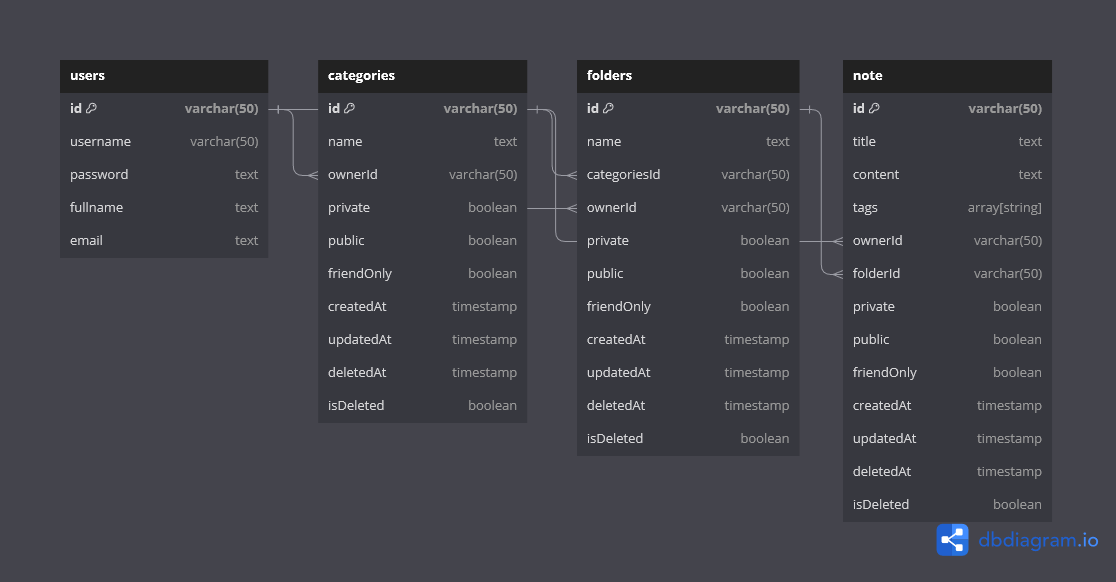
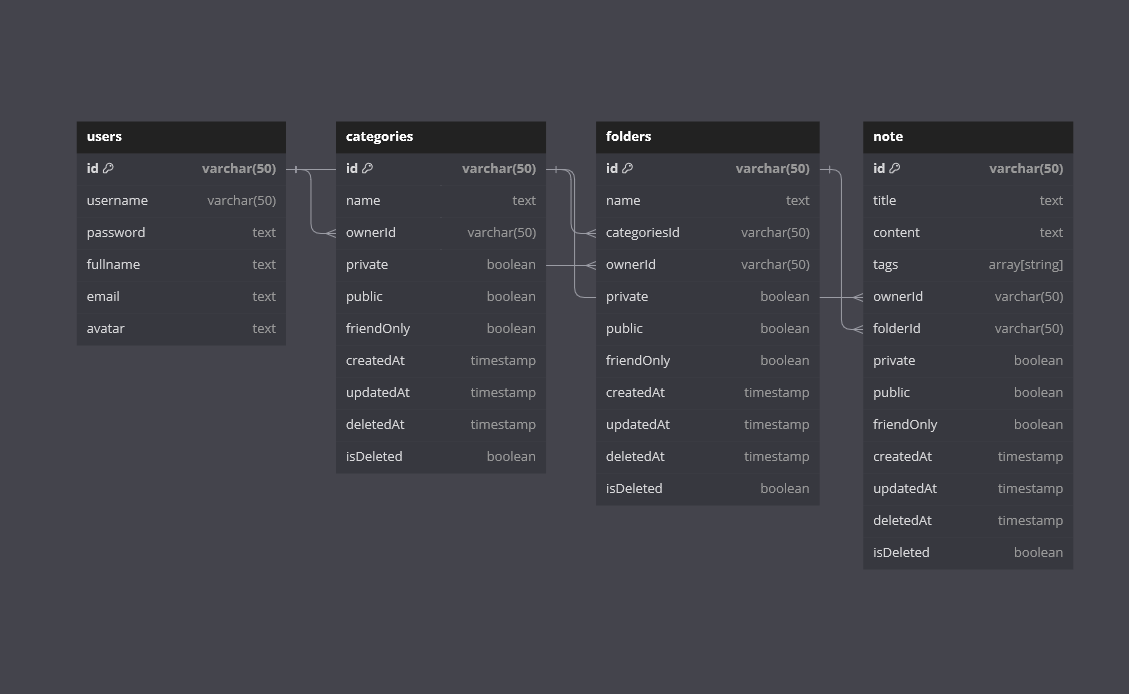
add update profile picture

diff --git a/server/app/Controllers/Http/UsersController.ts b/server/app/Controllers/Http/UsersController.ts
@@ -3,6 +3,7 @@ import type { HttpContextContract } from '@ioc:Adonis/Core/HttpContext'
 import Database from '@ioc:Adonis/Lucid/Database'
 import { schema, rules } from '@ioc:Adonis/Core/Validator'
 import Hash from '@ioc:Adonis/Core/Hash'
+import Env from '@ioc:Adonis/Core/Env'
 
 export default class UsersController {
   public async index({ auth, response }: HttpContextContract) {
@@ -18,9 +19,15 @@ export default class UsersController {
     }
 
     const users = await Database.from('users')
-      .select('id', 'name', 'email', 'username', 'created_at', 'updated_at')
+      .select('id', 'name', 'email', 'username', 'avatar', 'created_at', 'updated_at')
       .whereNot('id', userId)
       .returning('*')
+
+    users.forEach((user) => {
+      if (user.avatar) {
+        user.avatar = `${Env.get('APP_URL')}/uploads/${user.avatar}`
+      }
+    })
 
     return response.status(200).send({
       meta: {
@@ -63,7 +70,17 @@ export default class UsersController {
 
     const user = await Database.table('users')
       .insert({ name, email, username, password: encryptedPassword })
-      .returning(['id', 'name', 'email', 'username', 'created_at', 'updated_at'])
+      .returning(['id', 'name', 'email', 'username', 'avatar', 'created_at', 'updated_at'])
+
+    const slug = `${user[0].username}-${user[0].id}`
+
+    await Database.table('notes').insert({
+      owner_id: user[0].id,
+      title: 'Welcome to Notes App',
+      content: 'This is your first note. You can delete this note and create your own note.',
+      slug: slug,
+      tags: ['welcome', 'notes'],
+    })
 
     return {
       meta: {
@@ -97,6 +114,73 @@ export default class UsersController {
         status: 401,
         message: 'Please login first',
       },
+    })
+  }
+
+  public async update({ auth, request, response }: HttpContextContract) {
+    const userId = auth.use('api').user?.id
+    const { name, email, username, password } = request.body()
+
+    if (!userId) {
+      return response.unauthorized({
+        meta: {
+          status: 401,
+          message: 'Please login first',
+        },
+      })
+    }
+
+    const updateSchema = schema.create({
+      name: schema.string.optional([rules.minLength(3), rules.maxLength(100)]),
+      email: schema.string.optional([rules.email()]),
+      username: schema.string.optional([
+        rules.minLength(3),
+        rules.maxLength(50),
+        rules.unique({ table: 'users', column: 'username' }),
+      ]),
+      password: schema.string.optional([rules.minLength(8)]),
+    })
+
+    const customMessage = {
+      'required': 'The {{ field }} is required to update.',
+      'name.minLength': 'The name must be at least 3 characters.',
+      'name.maxLength': 'The name must be less than 100 characters.',
+      'email.email': 'The email must be a valid email address.',
+      'username.minLength': 'The username must be at least 3 characters.',
+      'username.maxLength': 'The username must be less than 50 characters.',
+      'username.unique': 'The username has already been taken.',
+      'password.minLength': 'The password must be at least 8 characters.',
+    }
+
+    try {
+      await request.validate({ schema: updateSchema, messages: customMessage })
+    } catch (error) {
+      return response.badRequest({
+        meta: {
+          status: 400,
+          message: 'Bad Request',
+        },
+        data: error.messages,
+      })
+    }
+
+    const user = await Database.from('users')
+      .where('id', userId)
+      .update({
+        name: name,
+        email: email,
+        username: username,
+        password: password,
+        updated_at: 'now()',
+      })
+      .returning(['id', 'name', 'email', 'username', 'avatar', 'created_at', 'updated_at'])
+
+    return response.status(200).send({
+      meta: {
+        status: 200,
+        message: 'Success',
+      },
+      data: user,
     })
   }
 }

diff --git a/server/app/Controllers/Http/AvatarsController.ts b/server/app/Controllers/Http/AvatarsController.ts
@@ -1,0 +1,74 @@
+import type { HttpContextContract } from '@ioc:Adonis/Core/HttpContext'
+
+import Application from '@ioc:Adonis/Core/Application'
+import { schema } from '@ioc:Adonis/Core/Validator'
+import Database from '@ioc:Adonis/Lucid/Database'
+import Env from '@ioc:Adonis/Core/Env'
+
+export default class AvatarsController {
+  public async store({ auth, request, response }: HttpContextContract) {
+    const userId = auth.use('api').user?.id
+    const avatar = request.file('avatar')
+
+    if (!userId) {
+      return response.unauthorized({
+        meta: {
+          status: 401,
+          message: 'Please login first',
+        },
+      })
+    }
+
+    const avatarSchema = schema.create({
+      avatar: schema.file({
+        size: '2mb',
+        extnames: ['jpg', 'png', 'jpeg'],
+      }),
+    })
+
+    const customMessage = {
+      'required': 'The {{ field }} is required to upload an avatar.',
+      'avatar.file': 'The avatar must be a file.',
+      'avatar.size': 'The avatar must be less than 2MB.',
+      'avatar.extnames': 'The avatar must be a file of type: jpg, png, jpeg.',
+    }
+
+    try {
+      await request.validate({ schema: avatarSchema, messages: customMessage })
+    } catch (error) {
+      return response.badRequest({
+        meta: {
+          status: 400,
+          message: 'Bad Request',
+        },
+        data: error.messages,
+      })
+    }
+
+    await avatar?.move(Application.tmpPath('uploads'), {
+      name: `${new Date().getTime()}.${avatar?.extname}`,
+    })
+
+    const newAvatar = await Database.from('users')
+      .where('id', userId)
+      .update({
+        avatar: avatar?.fileName,
+        updated_at: 'now()',
+      })
+      .returning(['id', 'name', 'email', 'username', 'avatar', 'created_at', 'updated_at'])
+
+    newAvatar.forEach((avatar) => {
+      if (avatar.avatar) {
+        avatar.avatar = `${Env.get('APP_URL')}/uploads/${avatar.avatar}`
+      }
+    })
+
+    return response.created({
+      meta: {
+        status: 201,
+        message: 'Created',
+      },
+      data: newAvatar[0],
+    })
+  }
+}

diff --git a/server/app/Middleware/AvatarChecker.ts b/server/app/Middleware/AvatarChecker.ts
@@ -1,0 +1,31 @@
+import type { HttpContextContract } from '@ioc:Adonis/Core/HttpContext'
+import Database from '@ioc:Adonis/Lucid/Database'
+import fs from 'fs'
+
+export default class AvatarChecker {
+  public async handle({ auth, response }: HttpContextContract, next: () => Promise<void>) {
+    // code for middleware goes here. ABOVE THE NEXT CALL
+    const userId = auth.use('api').user?.id
+    if (!userId) {
+      response.unauthorized({
+        meta: {
+          status: 401,
+          message: 'Please login first',
+        },
+      })
+      return
+    }
+
+    const oldAvatar = await Database.from('users')
+      .select('users.*')
+      .where('id', userId)
+      .returning('avatar')
+
+    if (oldAvatar[0].avatar) {
+      // Delete old avatar
+      fs.unlinkSync(`./tmp/uploads/${oldAvatar[0].avatar}`)
+    }
+
+    await next()
+  }
+}

diff --git a/server/database/migrations/1697858987067_users.ts b/server/database/migrations/1697858987067_users.ts
@@ -11,12 +11,18 @@ export default class extends BaseSchema {
       table.string('email').notNullable().unique()
       table.string('password').notNullable()
       table.string('remember_me_token').nullable()
+      table.string('avatar').nullable()
 
       /**
        * Uses timestampz for PostgreSQL and DATETIME2 for MSSQL
        */
       table.timestamp('created_at', { useTz: true }).notNullable().defaultTo(this.now())
       table.timestamp('updated_at', { useTz: true })
+
+      // index
+      table.index(['id'], 'users_id_idx')
+      table.index(['username'], 'users_username_idx')
+      table.index(['email'], 'users_email_idx')
     })
   }
 

diff --git a/server/database/migrations/1697859026933_notes.ts b/server/database/migrations/1697859026933_notes.ts
@@ -23,6 +23,13 @@ export default class extends BaseSchema {
       table.timestamp('updated_at', { useTz: true })
       table.timestamp('deleted_at', { useTz: true }).nullable()
       table.boolean('is_deleted').defaultTo(false).notNullable()
+
+      // index
+      table.index(['id'], 'notes_id_idx')
+      table.index(['title'], 'notes_title_idx')
+      table.index(['slug'], 'notes_slug_idx')
+      table.index(['owner_id'], 'notes_owner_id_idx')
+      table.index(['folder_id'], 'notes_folder_id_idx')
     })
   }
 

diff --git a/server/start/kernel.ts b/server/start/kernel.ts
@@ -41,6 +41,7 @@ Server.middleware.register([() => import('@ioc:Adonis/Core/BodyParser')])
 Server.middleware.registerNamed({
   auth: () => import('App/Middleware/Auth'),
   authChecker: () => import('App/Middleware/Authchecker'),
+  avatarChecker: () => import('App/Middleware/AvatarChecker'),
   friendRequestChecker: () => import('App/Middleware/Friendrequestchecker'),
   friendSentChecker: () => import('App/Middleware/Friendsentchecker'),
   categoriesChecker: () => import('App/Middleware/CategoriesChecker'),

diff --git a/server/database/migrations/1697859026932_folders.ts b/server/database/migrations/1697859026932_folders.ts
@@ -25,6 +25,12 @@ export default class extends BaseSchema {
       table.timestamp('created_at', { useTz: true }).defaultTo(this.now())
       table.timestamp('updated_at', { useTz: true })
       table.timestamp('deleted_at', { useTz: true }).nullable()
+
+      // index
+      table.index(['id'], 'folders_id_idx')
+      table.index(['name'], 'folders_name_idx')
+      table.index(['category_id'], 'folders_category_id_idx')
+      table.index(['owner_id'], 'folders_owner_id_idx')
     })
   }
 

diff --git a/client/src/components/Header.tsx b/client/src/components/Header.tsx
@@ -4,7 +4,7 @@ import { Button } from "./ui/button";
 export default function Header() {
   return (
     <div className="h-header-height border-b-2 border-gray-600 bg-foreground">
-      <div className="flex h-half-header-height items-center justify-between pe-5 ps-5">
+      <div className="flex h-half-header-height items-center justify-between pe-5 ps-5 pt-1">
         <div className="text-2xl font-bold text-white">Note App</div>
         <div className="flex items-center">
           <Button

diff --git a/server/database/migrations/1697859015901_categories.ts b/server/database/migrations/1697859015901_categories.ts
@@ -19,6 +19,11 @@ export default class extends BaseSchema {
       table.timestamp('created_at', { useTz: true }).defaultTo(this.now())
       table.timestamp('updated_at', { useTz: true })
       table.timestamp('deleted_at', { useTz: true }).nullable()
+
+      // index
+      table.index(['id'], 'categories_id_idx')
+      table.index(['name'], 'categories_name_idx')
+      table.index(['owner_id'], 'categories_owner_id_idx')
     })
   }
 

diff --git a/server/database/migrations/1697933973760_friend_requests.ts b/server/database/migrations/1697933973760_friend_requests.ts
@@ -12,6 +12,11 @@ export default class extends BaseSchema {
        * Uses timestamptz for PostgreSQL and DATETIME2 for MSSQL
        */
       table.timestamp('created_at', { useTz: true }).defaultTo(this.now())
+
+      // index
+      table.index(['id'], 'friend_requests_id_idx')
+      table.index(['sender_id'], 'friend_requests_sender_id_idx')
+      table.index(['receiver_id'], 'friend_requests_receiver_id_idx')
     })
   }
 

diff --git a/server/start/routes.ts b/server/start/routes.ts
@@ -36,6 +36,9 @@ Route.post('/register', `UsersController.store`)
 Route.group(() => {
   Route.get('/users', `UsersController.index`)
   Route.get('/users/me', `UsersController.show`)
+  Route.put('/users/me', `UsersController.update`)
+
+  Route.post('/avatars', `AvatarsController.store`).middleware(['avatarChecker'])
 
   Route.get('/notes/all', `NotesController.index`)
   Route.post('/notes', `NotesController.store`)

diff --git a/server/database/migrations/1697878286835_friends.ts b/server/database/migrations/1697878286835_friends.ts
@@ -13,6 +13,11 @@ export default class extends BaseSchema {
        * Uses timestamptz for PostgreSQL and DATETIME2 for MSSQL
        */
       table.timestamp('created_at', { useTz: true }).defaultTo(this.now())
+
+      // index
+      table.index(['id'], 'friends_id_idx')
+      table.index(['user_id'], 'friends_user_id_idx')
+      table.index(['friend_id'], 'friends_friend_id_idx')
     })
   }
 
